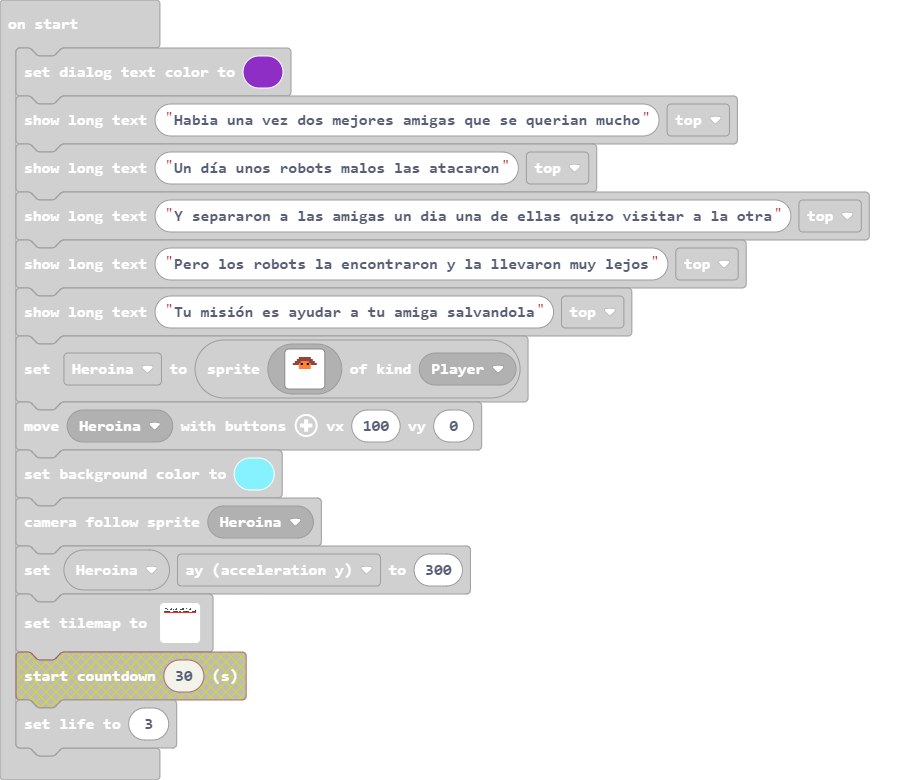
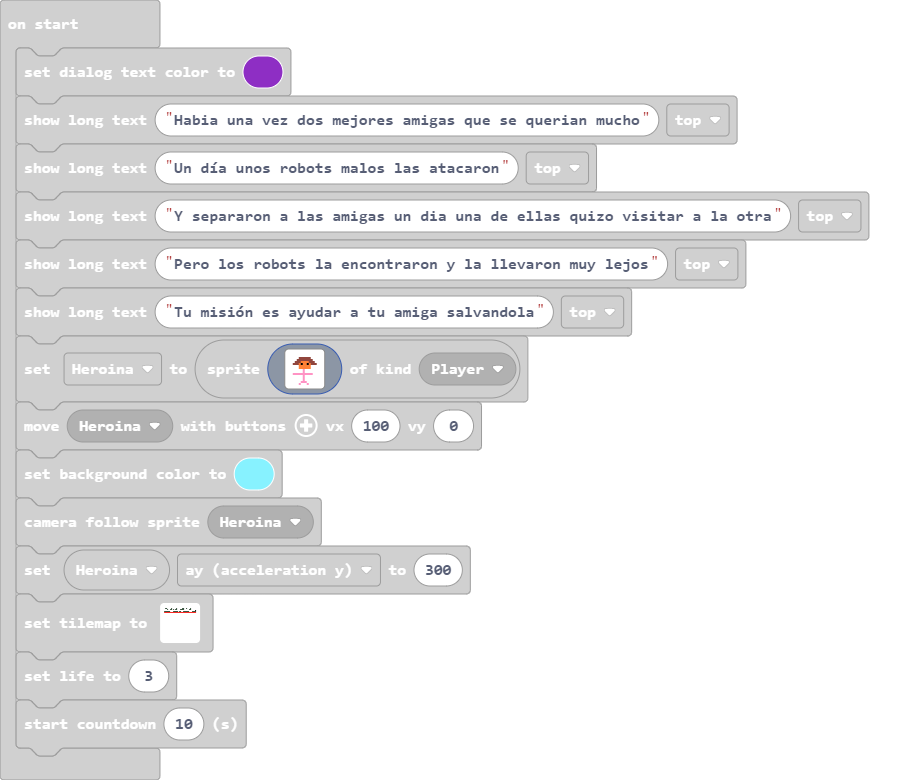
le puse cuerpo

Changed region(s): [[0.0, 0.8308, 0.2736, 0.9846], [0.2736, 0.4308, 0.3952, 0.5231]]

diff --git a/main.ts b/main.ts
@@ -24,9 +24,6 @@ controller.B.onEvent(ControllerButtonEvent.Pressed, function () {
         . . . . . . . . . . . . . . . . 
         `, Heroina, 50, 0)
 })
-scene.onOverlapTile(SpriteKind.Player, myTiles.tile1, function (sprite, location) {
-    info.changeLifeBy(-1)
-})
 controller.A.onEvent(ControllerButtonEvent.Pressed, function () {
     if (Heroina.isHittingTile(CollisionDirection.Bottom)) {
         Heroina.vy = -150
@@ -72,6 +69,9 @@ controller.right.onEvent(ControllerButtonEvent.Pressed, function () {
         . . . . . . . . . . . . . . . . 
         `)
 })
+scene.onOverlapTile(SpriteKind.Player, myTiles.tile1, function (sprite, location) {
+    info.changeLifeBy(-1)
+})
 let projectile: Sprite = null
 let Heroina: Sprite = null
 game.setDialogTextColor(10)
@@ -89,14 +89,14 @@ Heroina = sprites.create(img`
     . . e e e 4 f 4 4 f 4 e e e . . 
     . . . . . 4 4 4 4 4 4 . . . . . 
     . . . . . 4 4 4 4 4 4 . . . . . 
-    . . . . . . . . . . . . . . . . 
-    . . . . . . . . . . . . . . . . 
-    . . . . . . . . . . . . . . . . 
-    . . . . . . . . . . . . . . . . 
-    . . . . . . . . . . . . . . . . 
-    . . . . . . . . . . . . . . . . 
-    . . . . . . . . . . . . . . . . 
-    . . . . . . . . . . . . . . . . 
+    . . . . . . . 3 . . . . . . . . 
+    . . . . . . . 3 . . . . . . . . 
+    . . 3 3 3 3 3 3 3 3 3 3 . . . . 
+    . . . . . . . 3 . . . . . . . . 
+    . . . . . . . 3 . . . . . . . . 
+    . . . . . . . 3 . . . . . . . . 
+    . . . . . . 3 3 3 . . . . . . . 
+    . . . . . 3 . . . 3 . . . . . . 
     `, SpriteKind.Player)
 controller.moveSprite(Heroina, 100, 0)
 scene.setBackgroundColor(9)
